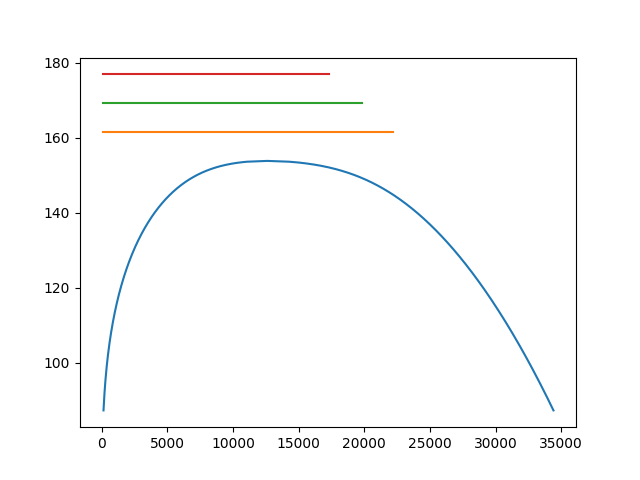
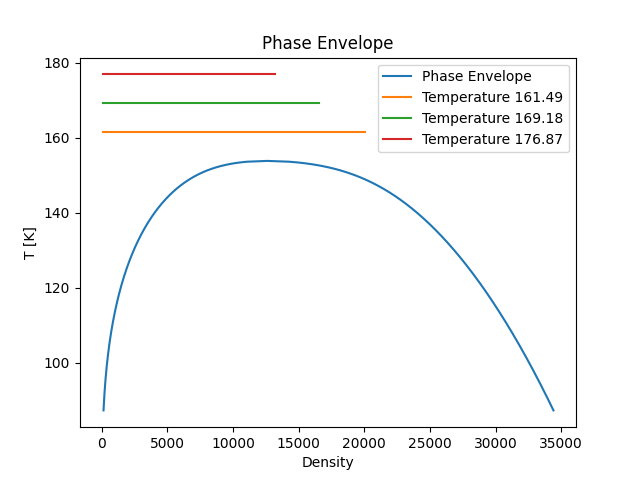
Labeled the phase envelope plot

diff --git a/phaseenvelope.py b/phaseenvelope.py
@@ -5,10 +5,14 @@ import numpy as np
 T_twop, P_twop, V_twop = Initialization.eos.get_envelope_twophase(1e5, Initialization.z, calc_v=True)
 
 
-plt.plot(1/V_twop, T_twop)
+plt.plot(1/V_twop, T_twop, label='Phase Envelope')
 for T in Initialization.T_values:
-    plt.plot(np.array(Initialization.density[T])/Initialization.Avogadro, T*np.ones_like(Initialization.density[T]))
-# Lables etc
+    label = f'Temperature {T:.2f}'
+    plt.plot(np.array(Initialization.density[T])/Initialization.Avogadro, T*np.ones_like(Initialization.density[T]), label=label)
+plt.xlabel('Density')
+plt.ylabel('T [K]')
+plt.title('Phase Envelope')
+plt.legend()
 plt.savefig("Plots/PhaseEnvelope.png")
 
 
